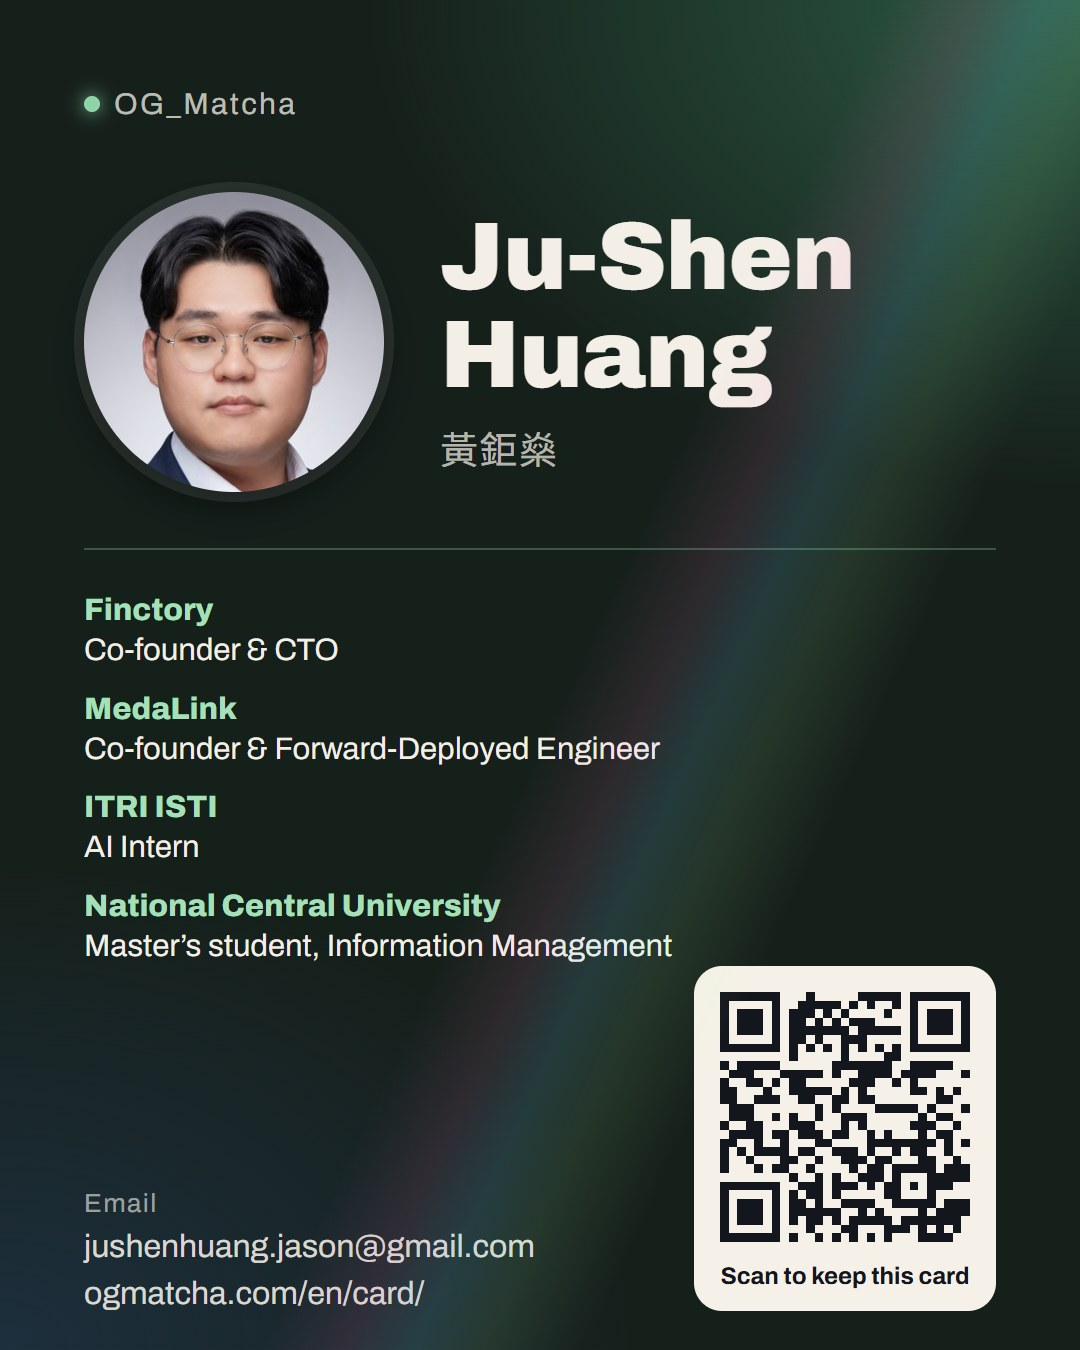
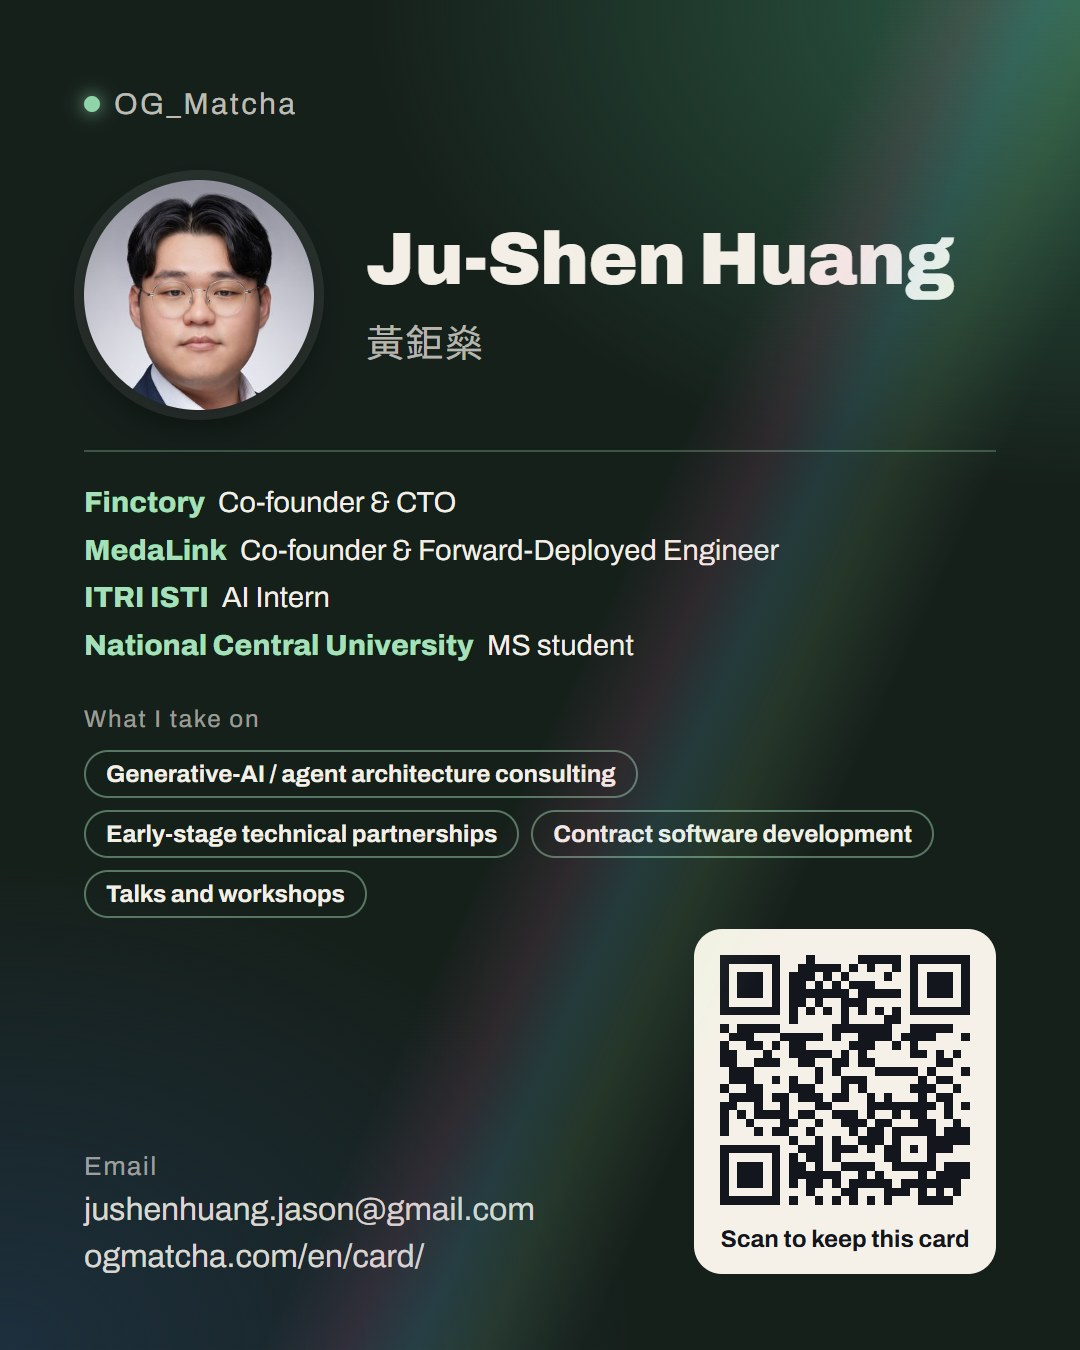
業務範圍：加上「軟體開發外包」，名片頁、名片圖、vCard 都列出四項業務並各附一句說明
- site.yml／en.yml 的 open 加一項，新增 openDetail（每項一句）；聯絡頁、首頁、結構化資料跟著更新。
- 名片頁「業務範圍」改成編號清單，放在「現在在做」之前。
- 名片圖：身分改成一行一個（加上工研院、中央碩士班），下方列業務範圍；英文版名字一行。

Changed region(s): [[0.0611, 0.1244, 0.9472, 0.9956], [0.0611, 0.84, 0.4889, 0.9644]]

diff --git a/scripts/og/card.html b/scripts/og/card.html
@@ -36,15 +36,23 @@
   }
   .brand { display: flex; align-items: center; gap: 14px; font-size: 30px; letter-spacing: 0.08em; color: rgb(243 239 231 / 0.75); }
   .dot { width: 16px; height: 16px; border-radius: 50%; background: #8fd3a8; box-shadow: 0 0 18px #8fd3a8; }
-  .top { display: flex; align-items: center; gap: 56px; margin-top: 72px; }
-  .photo { width: 300px; height: 300px; border-radius: 50%; object-fit: cover; box-shadow: 0 0 0 10px rgb(255 255 255 / 0.08), 0 16px 40px rgb(0 0 0 / 0.45); }
+  .top { display: flex; align-items: center; gap: 52px; margin-top: 60px; }
+  .photo { width: 260px; height: 260px; border-radius: 50%; object-fit: cover; box-shadow: 0 0 0 10px rgb(255 255 255 / 0.08), 0 16px 40px rgb(0 0 0 / 0.45); }
   .name { font-family: 'Noto Sans TC'; font-weight: 900; font-size: 118px; line-height: 1.02; letter-spacing: 0.03em; }
   .alt { margin-top: 16px; font-size: 38px; letter-spacing: 0.04em; color: rgb(243 239 231 / 0.72); }
-  :lang(en) .name { font-family: 'Archivo'; font-size: 96px; letter-spacing: -0.01em; }
+  :lang(en) .name { font-family: 'Archivo'; font-size: 74px; letter-spacing: -0.01em; white-space: nowrap; }
   :lang(en) .alt { font-family: 'Noto Sans TC'; }
-  .roles { display: grid; gap: 18px; margin-top: 56px; padding-top: 40px; border-top: 2px solid rgb(143 211 168 / 0.3); font-family: 'Noto Sans TC', sans-serif; font-size: 31px; line-height: 1.3; }
+  .roles { display: grid; gap: 14px; margin-top: 48px; padding-top: 36px; border-top: 2px solid rgb(143 211 168 / 0.3); font-family: 'Noto Sans TC', sans-serif; font-size: 30px; line-height: 1.3; }
   :lang(en) .roles { font-family: 'Archivo'; }
-  .roles b { display: block; font-weight: 800; color: #a6e0bb; }
+  .roles b { font-weight: 800; color: #a6e0bb; margin-right: 0.45em; }
+  .svc-h { margin-top: 44px; font-size: 24px; letter-spacing: 0.08em; color: rgb(243 239 231 / 0.6); font-family: 'Noto Sans TC', 'Archivo', sans-serif; }
+  .svc { display: flex; flex-wrap: wrap; gap: 12px; margin-top: 16px; padding: 0; list-style: none; font-family: 'Noto Sans TC', sans-serif; }
+  :lang(en) .svc { font-family: 'Archivo'; }
+  .svc li { padding: 10px 22px; border: 2px solid rgb(166 224 187 / 0.45); border-radius: 999px; font-size: 27px; font-weight: 700; }
+  :lang(en) .photo { width: 230px; height: 230px; }
+  :lang(en) .roles { font-size: 29px; gap: 10px; margin-top: 40px; padding-top: 32px; }
+  :lang(en) .svc-h { margin-top: 34px; }
+  :lang(en) .svc li { font-size: 24px; padding: 9px 20px; }
   .foot { display: flex; align-items: flex-end; justify-content: space-between; gap: 48px; margin-top: auto; }
   .contact { display: grid; gap: 12px; font-size: 32px; color: rgb(243 239 231 / 0.88); }
   .contact span:first-child { font-size: 26px; letter-spacing: 0.06em; color: rgb(243 239 231 / 0.6); }
@@ -61,6 +69,8 @@
   </div>
 </div>
 <div class="roles" id="roles"></div>
+<p class="svc-h" id="servicesLabel"></p>
+<ul class="svc" id="svc"></ul>
 <div class="foot">
   <div class="contact"><span id="scanNote"></span><span id="email"></span><span id="site"></span></div>
   <div class="qr"><img id="qr" alt="" /><p id="scan"></p></div>
@@ -68,9 +78,10 @@
 <script>
   const c = window.CARD
   document.documentElement.lang = c.lang === 'en' ? 'en' : 'zh-Hant'
-  for (const k of ['handle', 'name', 'alt', 'email', 'site', 'scan', 'scanNote']) document.getElementById(k).textContent = c[k]
+  for (const k of ['handle', 'name', 'alt', 'email', 'site', 'scan', 'scanNote', 'servicesLabel']) document.getElementById(k).textContent = c[k]
   document.getElementById('photo').src = c.photo
   document.getElementById('qr').src = c.qr
+  document.getElementById('svc').append(...c.services.map((t) => Object.assign(document.createElement('li'), { textContent: t })))
   document.getElementById('roles').append(...c.roles.map((r) => {
     const p = document.createElement('p'); const b = document.createElement('b')
     b.textContent = r.org; p.append(b, r.role); return p

diff --git a/components/pages/CardPage.vue b/components/pages/CardPage.vue
@@ -84,6 +84,13 @@
         <ul class="cd-stats">
           <li v-for="c in stats" :key="c.label"><b>{{ c.n }}</b><span>{{ c.label }}</span></li>
         </ul>
+        <h3 class="cd-sub">{{ t.openH }}</h3>
+        <ol class="cd-svc">
+          <li v-for="o in open" :key="o.title">
+            <span class="cd-svc-t">{{ o.title }}</span>
+            <span v-if="o.detail" class="cd-svc-d">{{ o.detail }}</span>
+          </li>
+        </ol>
         <h3 class="cd-sub">{{ t.nowH }}</h3>
         <ul class="cd-now">
           <li v-for="r in now" :key="r.org">
@@ -91,10 +98,6 @@
             <span class="cd-now-role">{{ r.role }}</span>
             <span class="cd-now-scope">{{ r.scope }}</span>
           </li>
-        </ul>
-        <h3 class="cd-sub">{{ t.openH }}</h3>
-        <ul class="cd-open">
-          <li v-for="o in open" :key="o">{{ o }}</li>
         </ul>
         <p class="cd-where"><MapPin :size="16" :stroke-width="2" aria-hidden="true" />{{ t.where }}</p>
       </section>
@@ -190,7 +193,7 @@ const t = computed(() =>
         cv: 'Résumé',
         aboutH: 'About me',
         nowH: 'Right now',
-        openH: 'Talk to me about',
+        openH: 'What I take on',
         where: 'Taoyuan, Taiwan',
         swapH: 'Your turn',
         swapLede: 'Leave a way to reach you and I’ll get in touch. Only I see it.',
@@ -231,7 +234,7 @@ const t = computed(() =>
         cv: '履歷',
         aboutH: '關於我',
         nowH: '現在在做',
-        openH: '可以找我聊',
+        openH: '業務範圍',
         where: '桃園，台灣',
         swapH: '換你留一張',
         swapLede: '留下聯絡方式，我會主動找你。只有我看得到。',
@@ -281,7 +284,10 @@ const now = computed(() =>
         { org: '中央大學 資訊管理學系', role: '碩士班', scope: `2026.09 起；學士 ${gpa}` },
       ]
 )
-const open = computed(() => (locale.value === 'en' ? en.open : site.open))
+const open = computed(() => {
+  const c = locale.value === 'en' ? en : site
+  return c.open.map((title) => ({ title, detail: c.openDetail?.[title] ?? '' }))
+})
 const vcf = computed(() => (locale.value === 'en' ? '/card/ju-shen-huang-en.vcf' : '/card/ju-shen-huang.vcf'))
 const qr = computed(() => (locale.value === 'en' ? '/card/qr-en.svg' : '/card/qr.svg'))
 const links = computed(() => [
@@ -967,21 +973,42 @@ onBeforeUnmount(() => {
   text-wrap: pretty;
 }
 
-.cd-open {
-  display: flex;
-  flex-wrap: wrap;
+.cd-svc {
+  display: grid;
   gap: var(--sp-2);
   margin: 0;
   padding: 0;
   list-style: none;
+  counter-reset: svc;
 }
 
-.cd-open li {
-  padding: 0.35em 0.9em;
-  border: 1px solid var(--rule-strong);
-  border-radius: var(--r-full);
-  font-size: var(--step--1);
+.cd-svc li {
+  display: grid;
+  grid-template-columns: 2.2rem 1fr;
+  column-gap: var(--sp-2);
+  padding: var(--sp-3);
+  border-radius: var(--r-2);
+  background: var(--surface);
+  counter-increment: svc;
+}
+
+.cd-svc li::before {
+  content: counter(svc, decimal-leading-zero);
+  grid-row: span 2;
+  font-family: var(--font-mono);
   font-weight: 700;
+  color: var(--pop-ink);
+}
+
+.cd-svc-t {
+  font-weight: 800;
+}
+
+.cd-svc-d {
+  margin-top: 0.15em;
+  font-size: var(--step--1);
+  color: var(--ink-2);
+  text-wrap: pretty;
 }
 
 .cd-where {
